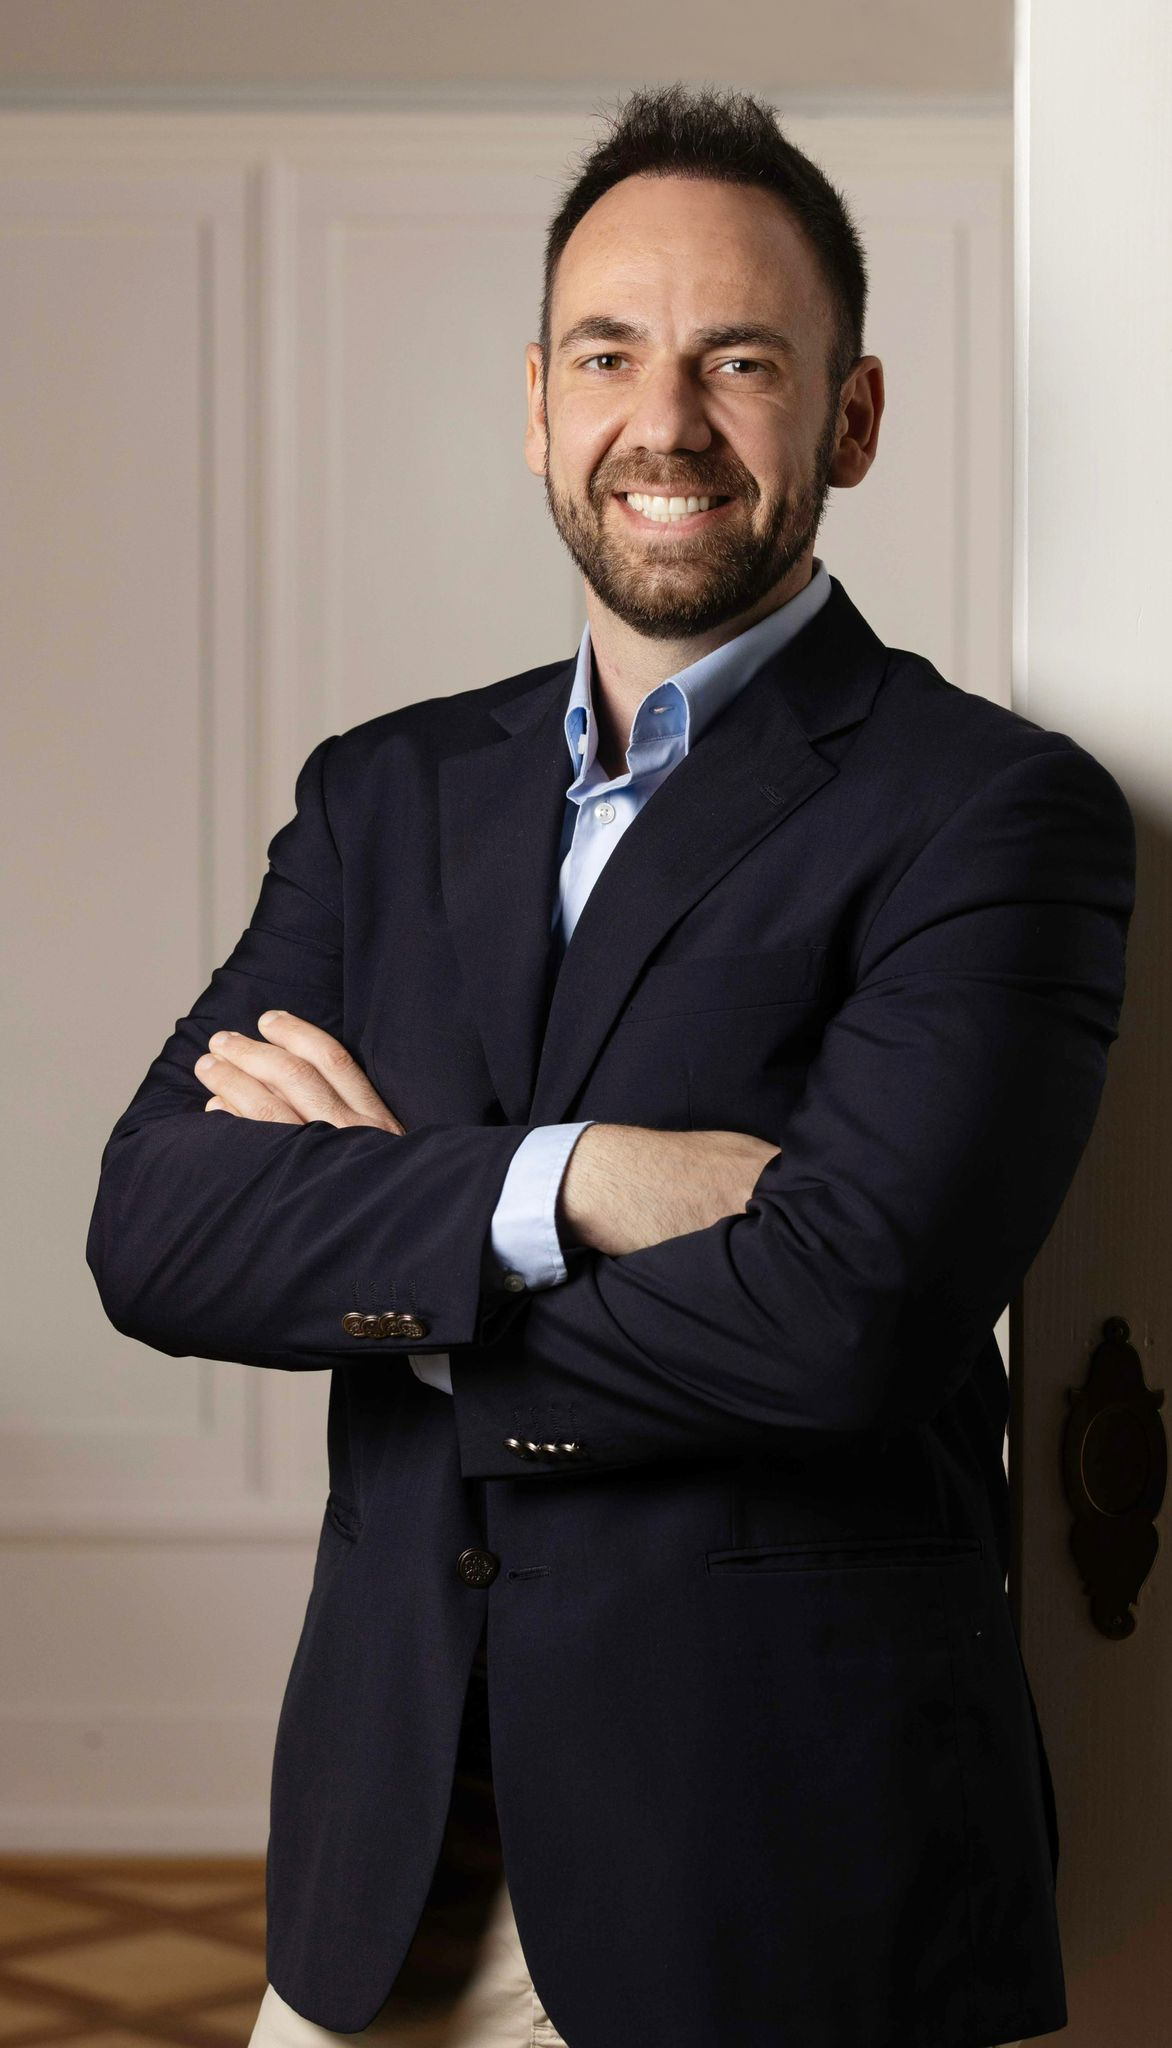
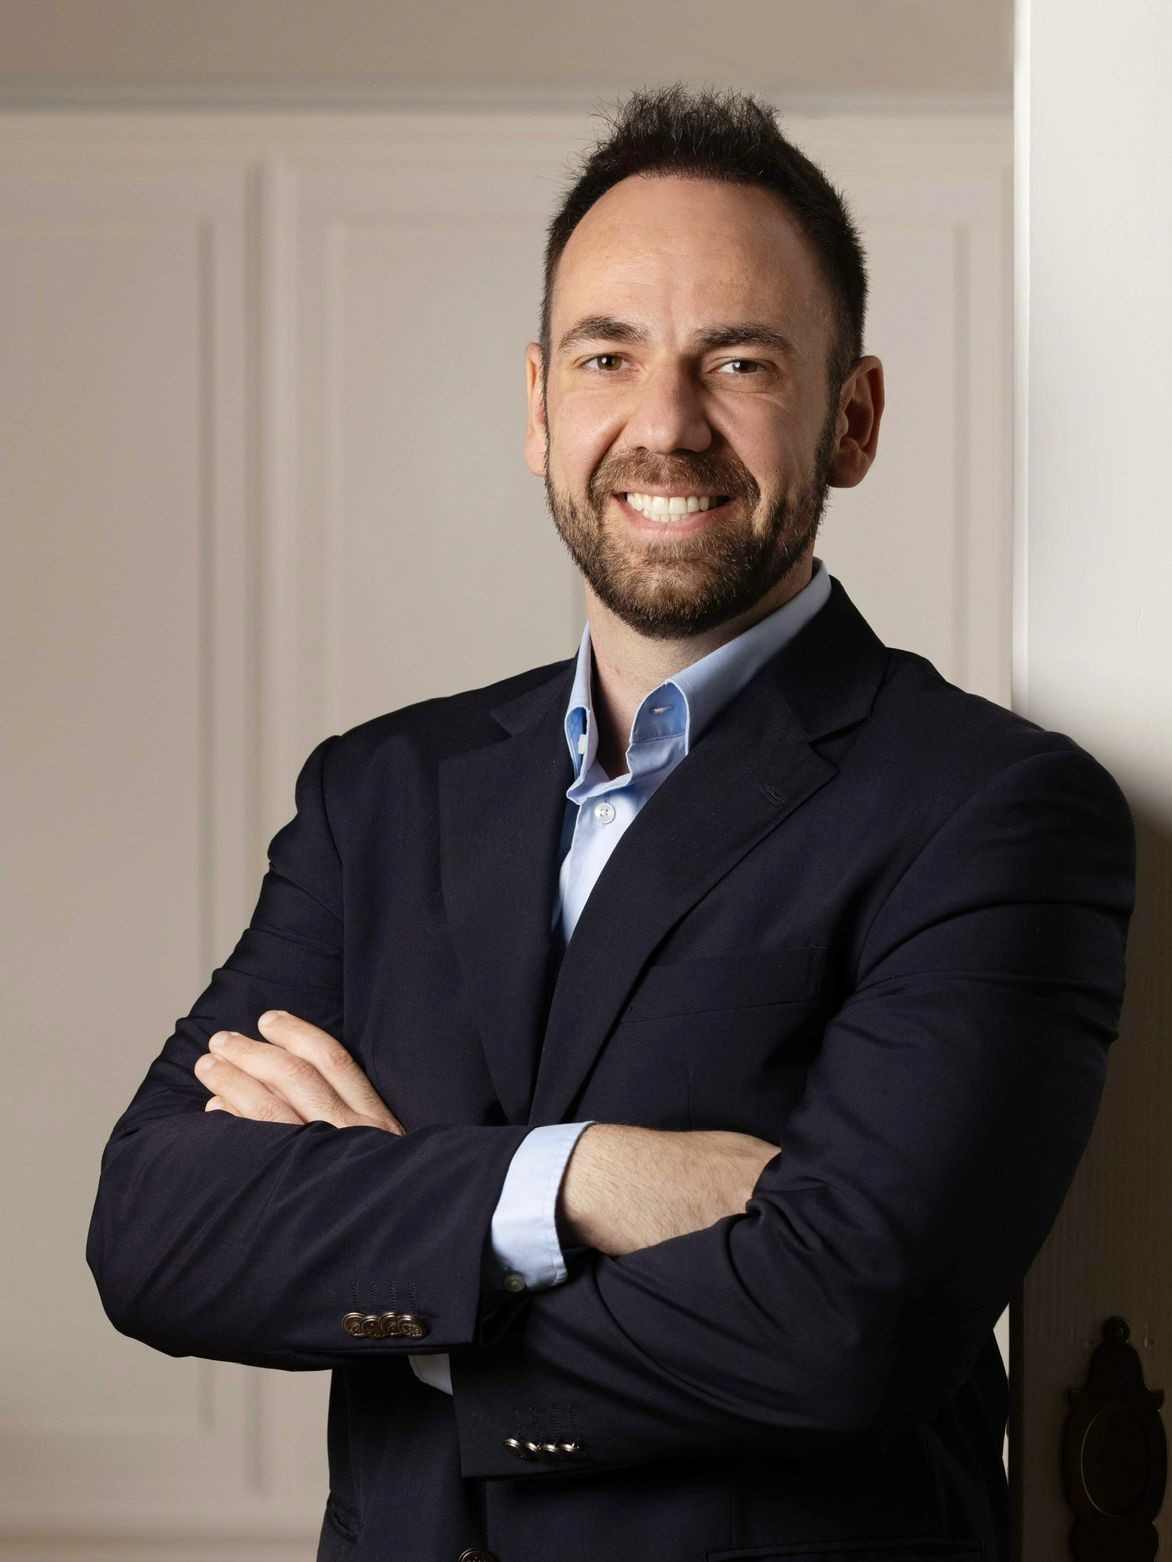
fix langague

diff --git a/src/data/doctors.ts b/src/data/doctors.ts
@@ -8,7 +8,7 @@ export const doctors: Doctor[] = [
     title: "Dipl. Arzt – Jerumed Praxenleiter",
     specialty: "Allgemeinmedizin",
     certifications: ["Diplom Allgemeinmedizin", "Praxisleitung"],
-    languages: ["Deutsch", "Arabisch", "Englisch"],
+    languages: ["Deutsch", "Arabisch"],
     experience: 15,
     bio: "Als Praxenleiter von Jerumed vereint A. Abuawad hervorragende klinische Fähigkeiten mit strategischem Gesundheitsmanagement. Er steht für Qualität und patientenorientierte Betreuung.",
     image: "/doc2.jpeg",
@@ -25,7 +25,7 @@ export const doctors: Doctor[] = [
     title: "Dipl. Ärztin – Jerumed Praxenleiterin",
     specialty: "Allgemeinmedizin",
     certifications: ["Diplom Allgemeinmedizin", "Frauengesundheit"],
-    languages: ["Deutsch", "Spanisch", "Englisch", "Portugiesisch"],
+    languages: ["Deutsch", "Spanisch", "Englisch", "Französisch", "Rumänisch"],
     experience: 12,
     bio: "Dr. Rodriguez bringt eine herzliche, patientenorientierte Herangehensweise in die Allgemeinmedizin mit besonderem Fokus auf Frauengesundheit und Prävention.",
     image: "/doc1.jpeg",
@@ -42,11 +42,11 @@ export const doctors: Doctor[] = [
     title: "Allgemeinmedizin",
     specialty: "Allgemeinmedizin",
     certifications: [],
-    languages: ["Deutsch", "Englisch"],
+    languages: ["Deutsch", "Arabisch", "Englisch"],
     experience: 0,
     bio: "Dr. Kassar wird in Kürze Teil unseres Teams. Biografie und weitere Details folgen.",
     image: "/doc3.jpeg",
-    clinicIds: [],
+    clinicIds: ["altstetten"],
     availability: "available",
     education: [],
     phone: "TBD",
@@ -76,7 +76,7 @@ export const doctors: Doctor[] = [
     title: "Facharzt Urologie & Kinderurologie",
     specialty: "Urologie",
     certifications: ["Facharzt Urologie", "Kinderurologie"],
-    languages: ["Deutsch", "Arabisch", "Englisch"],
+    languages: ["Deutsch", "Arabisch", "Englisch", "Russisch"],
     experience: 14,
     bio: "Med. Jamil Alsaaydeh ist Facharzt für Urologie und Kinderurologie. Als Belegarzt bietet er umfassende urologische Versorgung für Erwachsene und Kinder.",
     image: "/doc4.jpeg",
@@ -93,10 +93,10 @@ export const doctors: Doctor[] = [
     title: "Fachärztin Ästhetische Medizin",
     specialty: "Ästhetische Medizin",
     certifications: ["Facharzt Ästhetische Medizin", "NEAUVIA Nrose Protocol Trainer", "CUTERA SecretPro"],
-    languages: ["Deutsch", "Englisch"],
+    languages: ["Deutsch", "Englisch", "Kroatisch"],
     experience: 10,
     bio: "Dr. med. Demaili Fiknete ist eine Fachärztin für Ästhetische Medizin mit über 10 Jahren klinischer Erfahrung in Radiologie, Strahlentherapie, Neurologie und Notfallmedizin. Seit 2019 konzentriert sie sich ausschließlich auf nicht-invasive ästhetische Behandlungen. Als zertifizierte Trainerin für das NEAUVIA Nrose Protocol und CUTERA SecretPro Speaker bietet sie hochmoderne Behandlungen wie fortgeschrittene Filler und Botox, Endolifting, Radiofrequenz-Technologie, Microneedling, CO₂-Laser-Therapien, Vaginalverjüngung und Sculptra-Behandlungen an.",
-    image: "",
+    image: "/demaili-fiknete.jpg",
     clinicIds: ["medesthec"],
     availability: "available",
     education: ["Medizinstudium", "Facharzt Ästhetische Medizin", "Zusatzausbildungen in fortgeschrittenen ästhetischen Techniken"],
@@ -110,10 +110,10 @@ export const doctors: Doctor[] = [
     title: "Facharzt Allgemeinmedizin – Gesundheitsoptimierung",
     specialty: "Allgemeinmedizin",
     certifications: ["Facharzt Allgemeinmedizin", "Prävention", "Biohacking", "Metabolische Gesundheit"],
-    languages: ["Deutsch", "Englisch", "Weitere"],
+    languages: ["Deutsch", "Englisch", "Griechisch"],
     experience: 12,
     bio: "Chris Bachtsetzis ist ein international tätiger Mediziner mit Schwerpunkt auf Allgemeinmedizin, Prävention und modernen Ansätzen der Gesundheitsoptimierung. Mit fundierter Berufserfahrung in der Schweiz sowie im internationalen Umfeld verbindet er evidenzbasierte Medizin mit innovativen Konzepten aus dem Bereich Biohacking. Sein Fokus liegt auf ganzheitlicher Gesundheitsförderung, Leistungssteigerung und der nachhaltigen Prävention chronischer Erkrankungen. Durch die Kombination klassischer medizinischer Expertise mit neuesten wissenschaftlichen Erkenntnissen (u.a. IV Infusionen, Mitochondrien Healthspiegel und Metabolische Check-ups) unterstützt er Menschen dabei, ihre Gesundheit proaktiv und individuell zu optimieren.",
-    image: "",
+    image: "/chris.jpeg",
     clinicIds: ["seefeld", "duebendorf"],
     availability: "available",
     education: ["Medizinstudium – Allgemeinmedizin", "Internationale Zusatzausbildungen in Prävention und Biohacking"],

diff --git a/src/components/sections/team-preview.tsx b/src/components/sections/team-preview.tsx
@@ -49,7 +49,7 @@ export default function TeamPreview() {
                       src={doc.image}
                       alt={`Profilfoto – ${doc.name}, ${doc.specialty}`}
                       fill
-                      className="object-contain"
+                      className="object-cover"
                       sizes="(max-width: 640px) 100vw, (max-width: 1024px) 50vw, 33vw"
                     />
                   ) : (

diff --git a/src/components/cards/doctor-card.tsx b/src/components/cards/doctor-card.tsx
@@ -50,7 +50,7 @@ export default function DoctorCard({ doctor, index = 0 }: DoctorCardProps) {
             src={doctor.image}
             alt={`Profilfoto – ${doctor.name}, ${doctor.specialty}`}
             fill
-            className="object-contain"
+            className="object-cover"
             sizes="(max-width: 640px) 100vw, (max-width: 1024px) 50vw, 33vw"
           />
         ) : (
